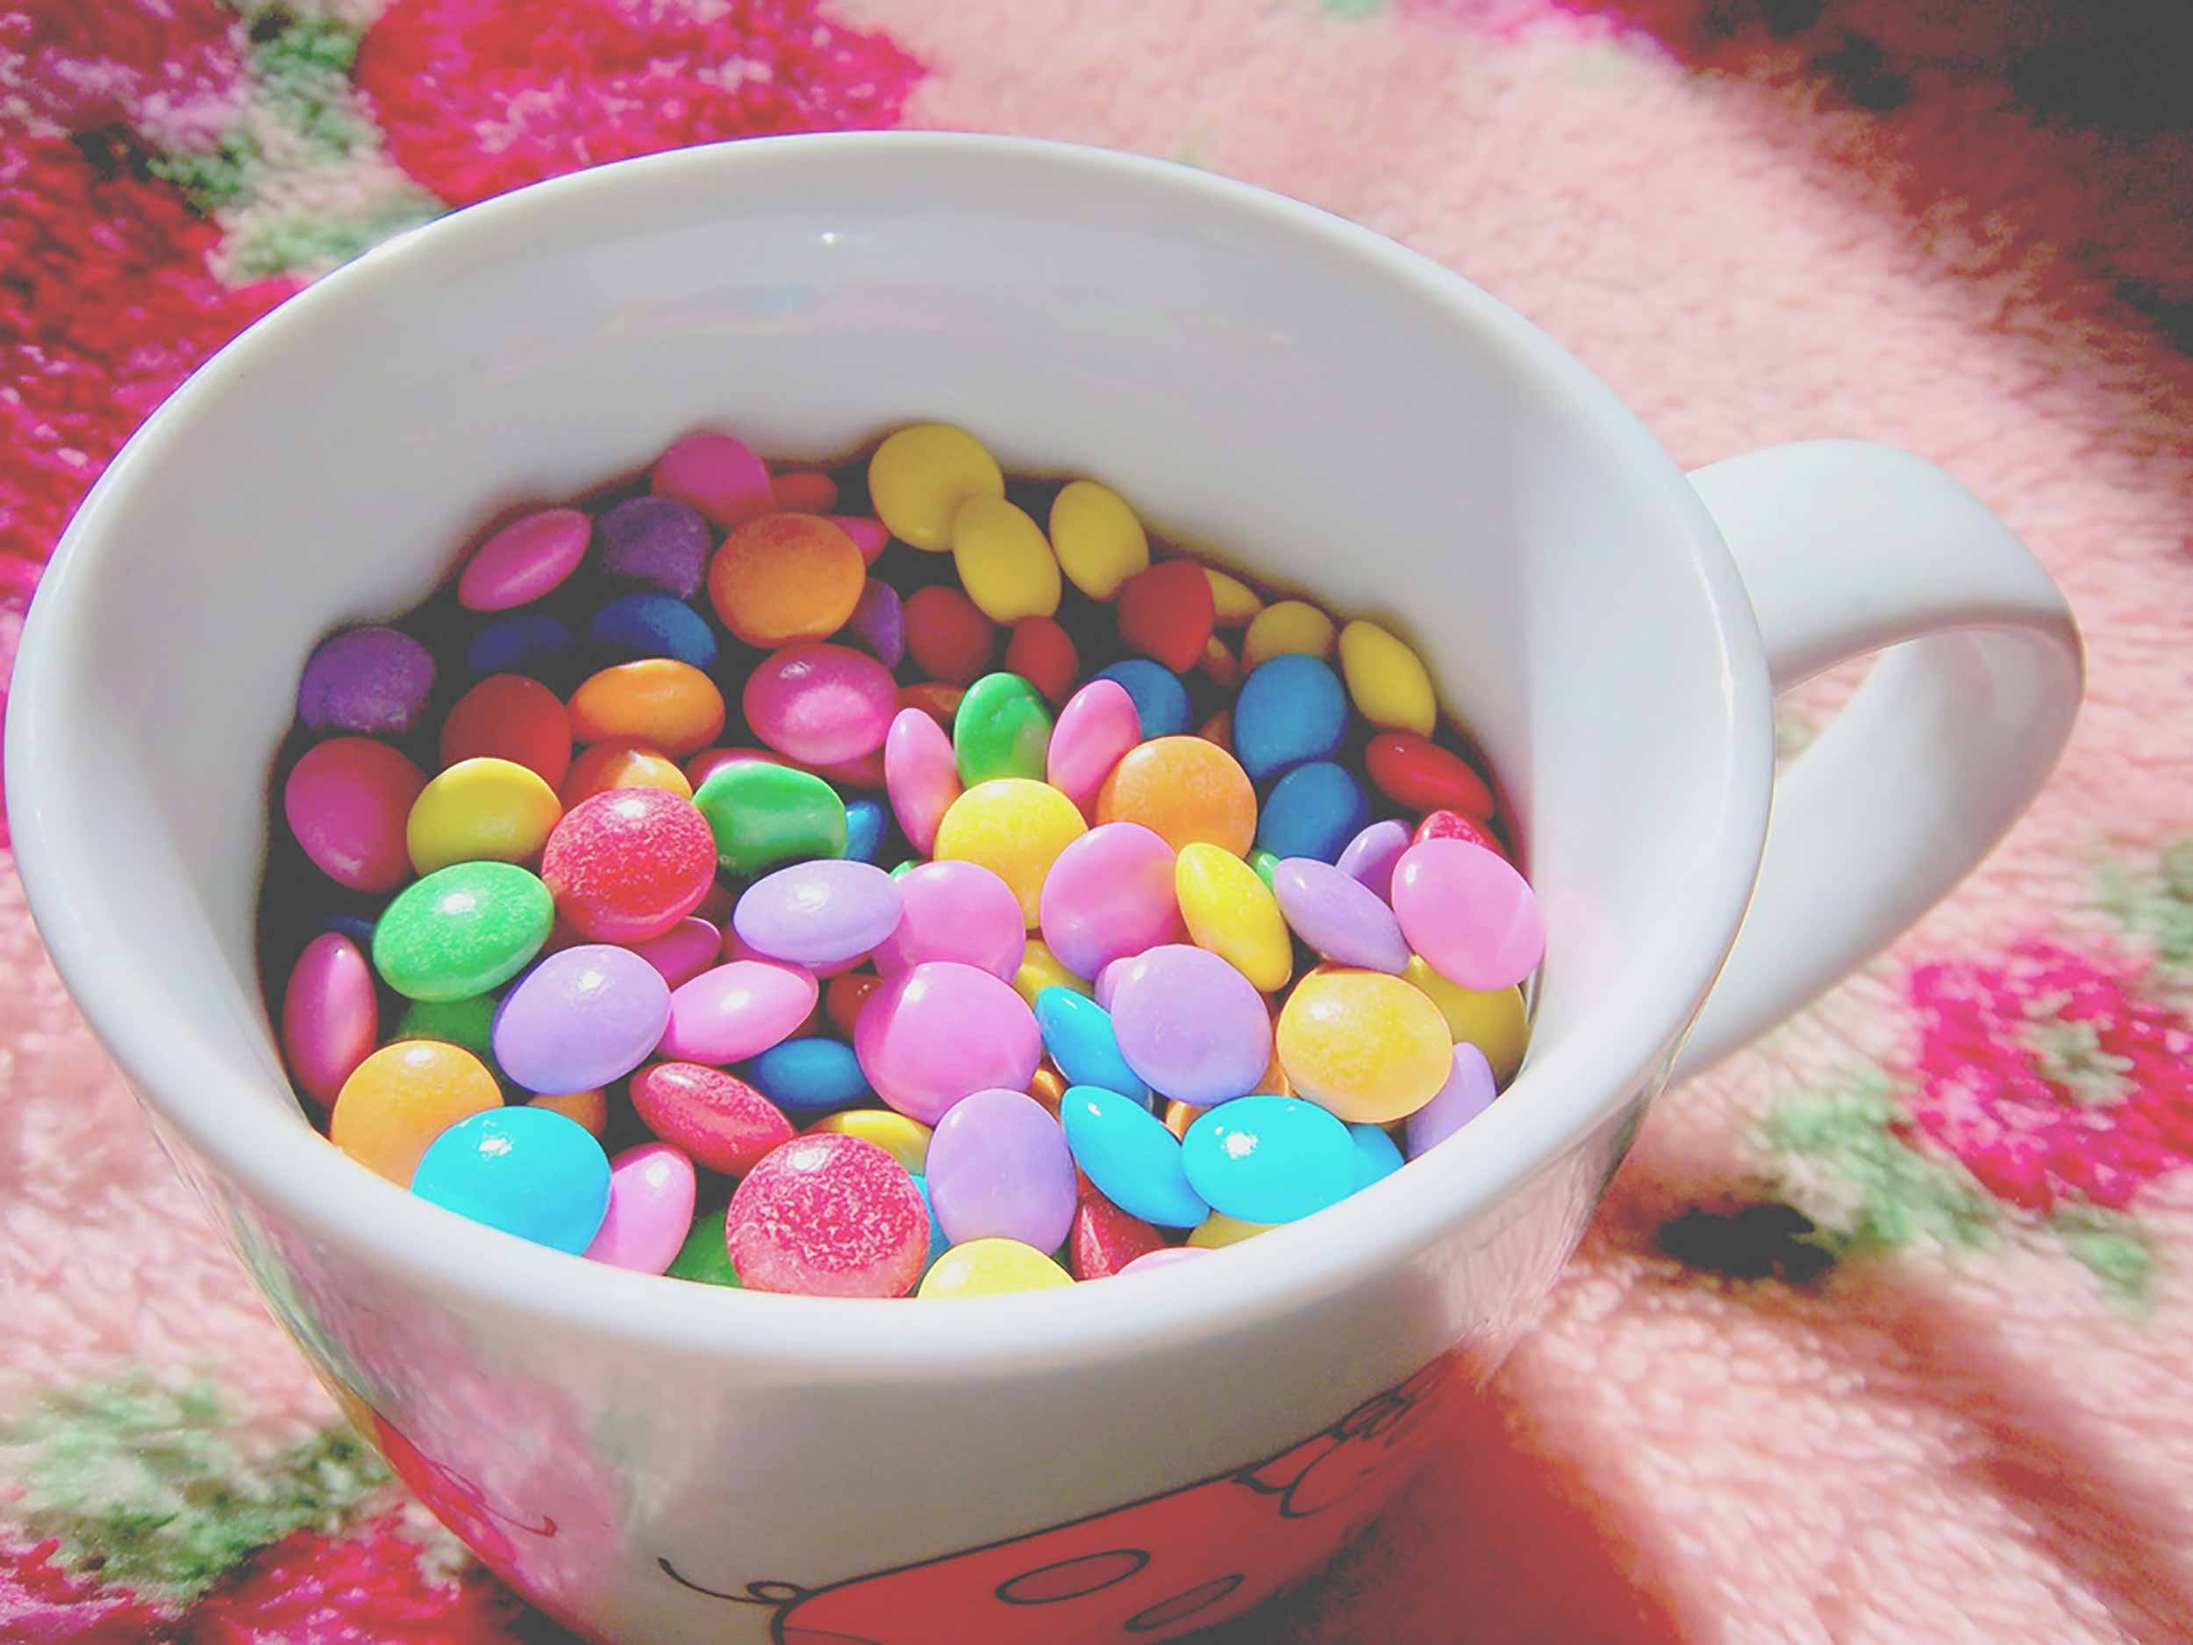
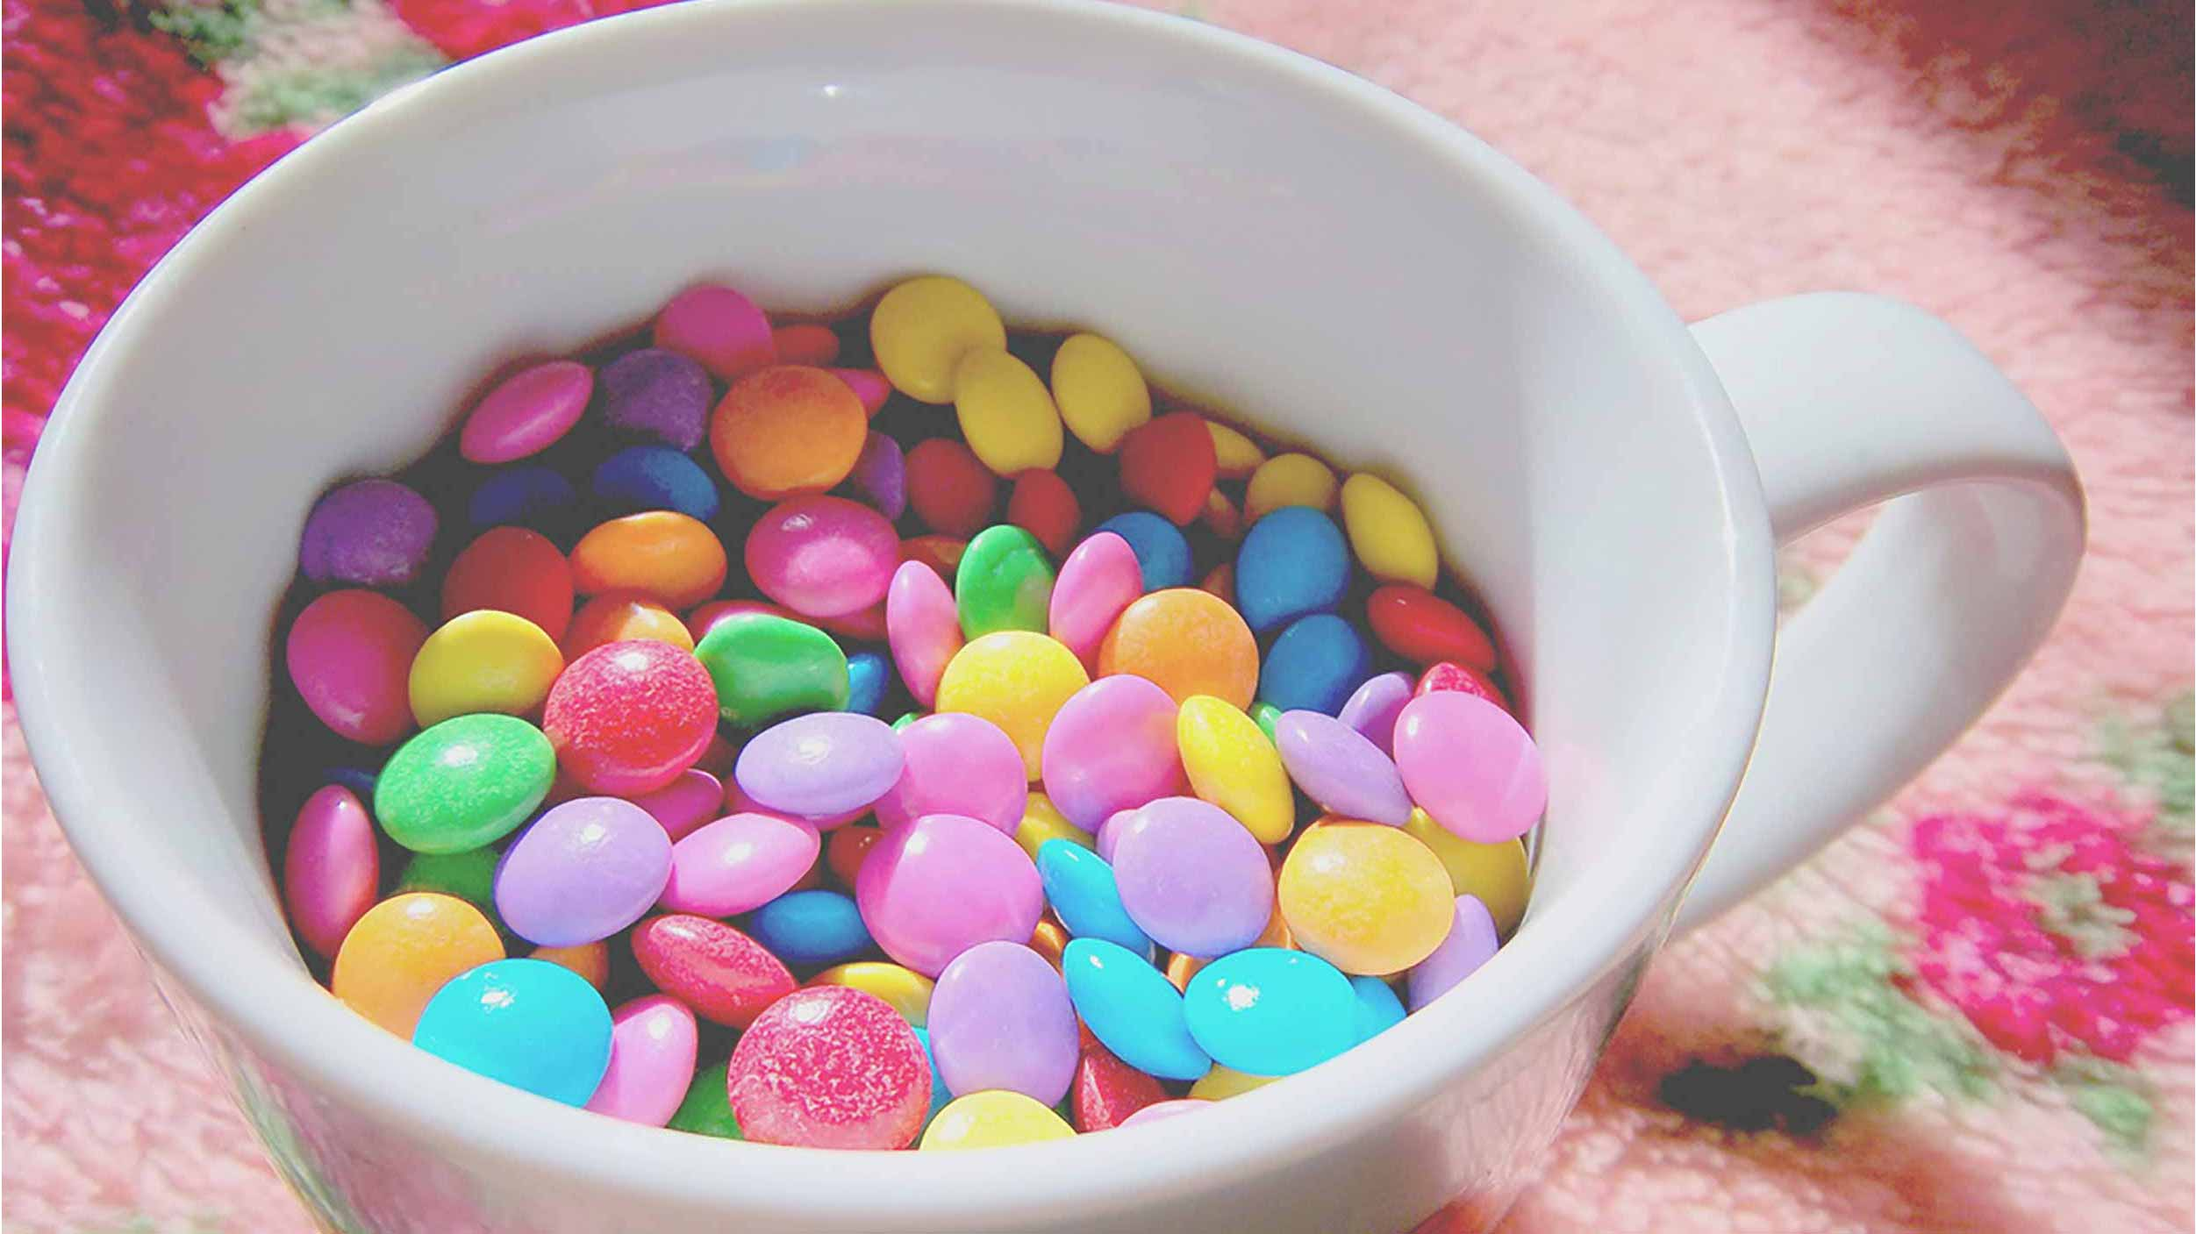
TRYING TO MAKE a background pattern

diff --git a/index.html b/index.html
@@ -10,10 +10,10 @@
   <link href="css/main.css" rel="stylesheet">
   <link href="https://fonts.googleapis.com/css?family=Raleway" rel="stylesheet">
 </head>
-<body>
+<body class="wrapper">
 
   <header class="grid pad-t-1-2">
-    <div class="unit xs-1 s-1 m-1-3 text-center">
+    <div class="unit xs-1 s-1 m-1-3 text-center pad-t-1-2">
       <h1>Beau's Bonbons</h1>
     </div>
     <div class="unit xs-1 s-1 m-2-3">
@@ -26,52 +26,73 @@
         </ul>
       </nav>
     </div>
-    <div class="banner">
-      <img class="img-flex" src="images/banner.jpg" alt="">
+    <div class="banner embed embed-16by9">
+      <img class="img-flex embed-item" src="images/banner.jpg" alt="">
     </div>
   </header>
 
   <main>
-    <div class="line">
+    <div class="line gutter-2">
       <h2>Our Story</h2>
       <i class="icon i-64"><img src="images/heart.svg" alt=""></i>
       <p>Beau’s Bonbons is a creative company that offers many products, we off anything from hard candies to beautifully designed cookies. We Have it all! We are hardworking and will meet all of our candy lover’s needs. All of our products are hand made with pride by our family of dedicated employees. </p>
     </div>
 
-    <div class="line">
+    <div class="line gutter-2">
       <div>
         <h2>Gallery</h2>
         <i class="icon i-64"><img src="images/one-strip.svg" alt=""></i>
       </div>
       <div class="grid">
-        <div class="gallery unit xs-1">
-          <img class="xs-1-2 s-1-2 m-1-4" src="images/candy.jpg" alt="">
-          <img class="xs-1-2 s-1-2 m-1-4" src="images/gum-drops.jpg" alt="">
-          <img class="xs-1-2 s-1-2 m-1-4" src="images/sprinkles.jpg" alt="">
+        <div class="unit xs-1 s-1 m-1-3">
+          <img class="gallery island-1-2" src="images/candy.jpg" alt="">
         </div>
-        <div class="gallery unit xs-1">
-          <img class="xs-1-2 s-1-2 m-1-4" src="images/gummy-worms.jpg" alt="">
-          <img class="xs-1-2 s-1-2 m-1-4" src="images/cookies.jpg" alt="">
-          <img class="xs-1-2 s-1-2 m-1-4" src="images/candy-2.jpg" alt="">
+        <div class="unit xs-1 s-1 m-1-3">
+          <img class="gallery island-1-2" src="images/gum-drops.jpg" alt="">
+        </div>
+        <div class="unit xs-1 s-1 m-1-3">
+          <img class="gallery island-1-2" src="images/sprinkles.jpg" alt="">
+        </div>
+        <div class="unit xs-1 s-1 m-1-3">
+          <img class="gallery island-1-2" src="images/gummy-worms.jpg" alt="">
+        </div>
+        <div class="unit xs-1 s-1 m-1-3">
+          <img class="gallery island-1-2" src="images/cookies.jpg" alt="">
+        </div>
+        <div class="unit xs-1 s-1 m-1-3">
+          <img class="gallery island-1-2" src="images/candy-2.jpg" alt="">
         </div>
       </div>
     </div>
 
-    <div class="line">
+    <div class="line gutter-2">
       <div>
         <h2>Our Staff</h2>
         <i class="icon i-64"><img src="images/heart.svg" alt=""></i>
       </div>
-      <div class="grid xs-1">
-        <div class="staff unit xs-1">
-          <img class="unit xs-1-2 s-1-2 m-1-4" src="images/man.jpg" alt="">
-          <img class="unit xs-1-2 s-1-2 m-1-4" src="images/man-2.jpg" alt="">
-          <img class="unit xs-1-2 s-1-2 m-1-4" src="images/lady.jpg" alt="">
+      <div class="grid">
+        <div class="unit xs-1 s-1 m-1-3">
+          <figure>
+            <img class="staff pad-b island-1-2" src="images/man.jpg" alt="">
+            <figcaption class="gutter">Mark Bailey, CEO</figcaption>
+          </figure>
+        </div>
+        <div class="unit xs-1 s-1 m-1-3">
+          <figure>
+            <img class="staff pad-b island-1-2" src="images/man-2.jpg" alt="">
+            <figcaption class="gutter">Samuel Peter, Candy maker/designer</figcaption>
+          </figure>
+        </div>
+        <div class="unit xs-1 s-1 m-1-3">
+          <figure>
+            <img class="staff pad-b island-1-2" src="images/lady.jpg" alt="">
+            <figcaption class="gutter">Lilly Saunders, Candy maker/designer</figcaption>
+          </figure>
         </div>
       </div>
     </div>
 
-    <div class="line">
+    <div class="line gutter-2">
       <h2>Contact</h2>
       <i class="icon i-64"><img src="images/blank.svg" alt=""></i>
       <p>Phone Number</p>

diff --git a/css/main.css b/css/main.css
@@ -1,9 +1,19 @@
 html {
   font-family: Raleway, sans-serif;
+  background-image: url("../images/candy-bg.svg");
+  background-color: #f9b4da;
+  background-repeat: repeat;
+  background-size: 48px auto;
 }
 
 main {
   text-align: center;
+}
+
+body {
+  background-color: #fff;
+  padding-left: 1em;
+  padding-right: 1em;
 }
 
 ul {
@@ -49,13 +59,9 @@ li:hover {
 }
 
 .footer {
-  background-color: #f9b4da;
-  border-bottom: 3px solid #d15a90;
-  border-top: 3px solid #d15a90;
-  background-image: url("../images/blank.svg"), url("../images/dots.svg");
-  background-size: 2px 5px, 2px 5px, 18px auto;
-  background-repeat: repeat-x, repeat-x, repeat;
-  background-position: left top, left bottom, left top;
+  background-color: #ffeef8;
+  border-bottom: 3px solid #f9b4da;
+  border-top: 3px solid #f9b4da;
 }
 
 .search-btn {
@@ -85,13 +91,13 @@ li:hover {
 @media only screen and (min-width: 38em) {
 
   h1 {
-   text-align: left;
- }
+    text-align: left;
+   }
 
   nav {
     text-align: right;
   }
-  
+
 }
 
 @media only screen and (min-width: 60em) {
